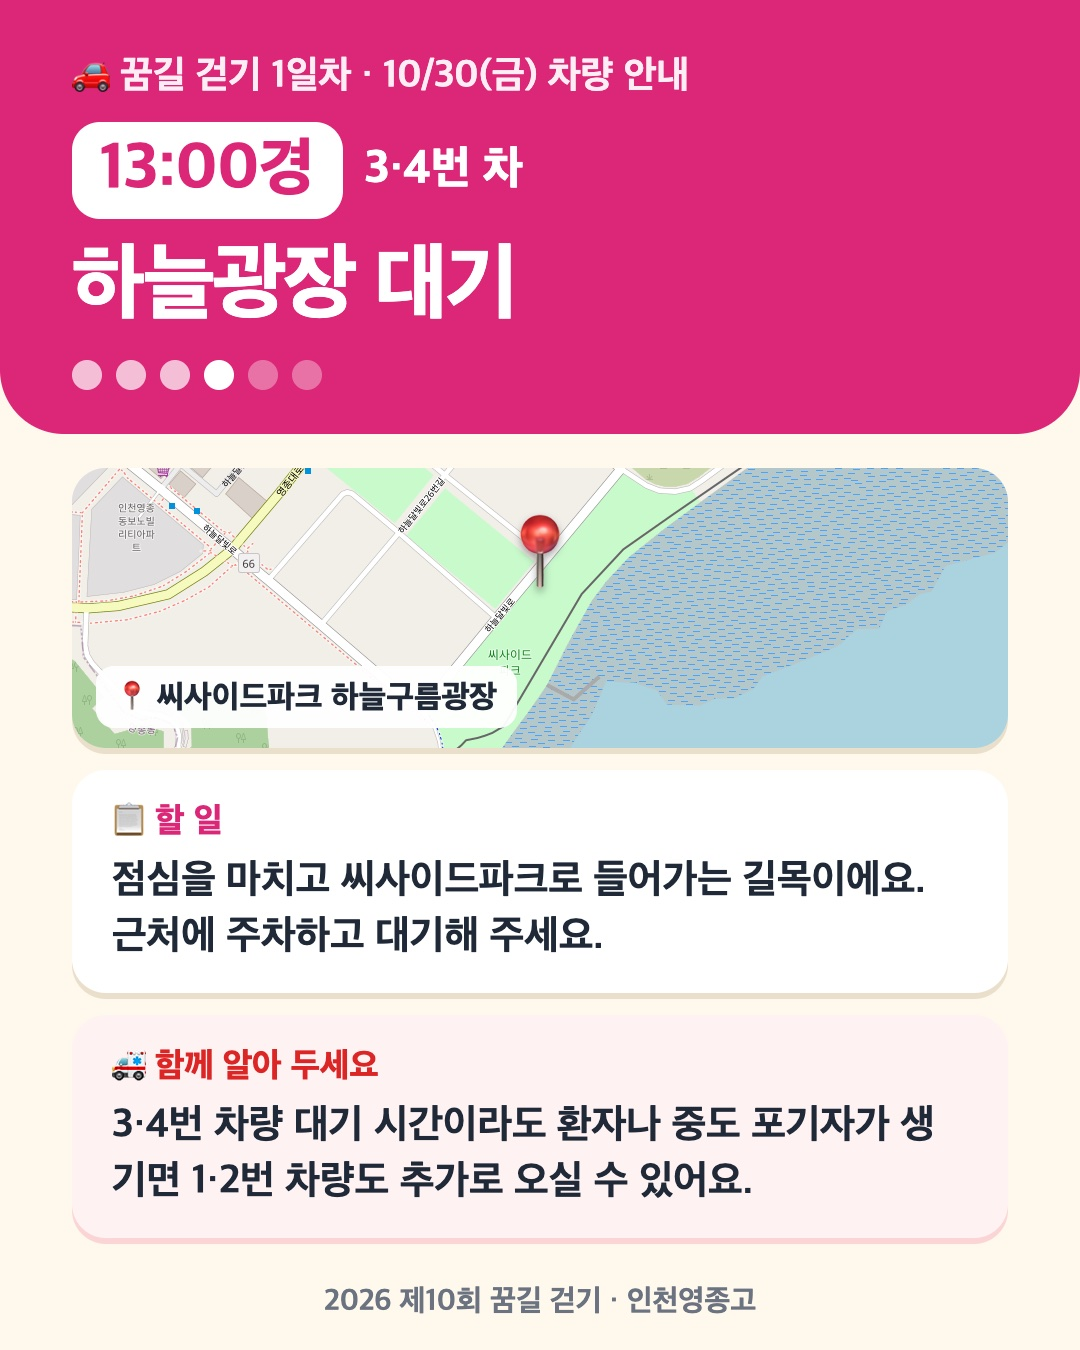
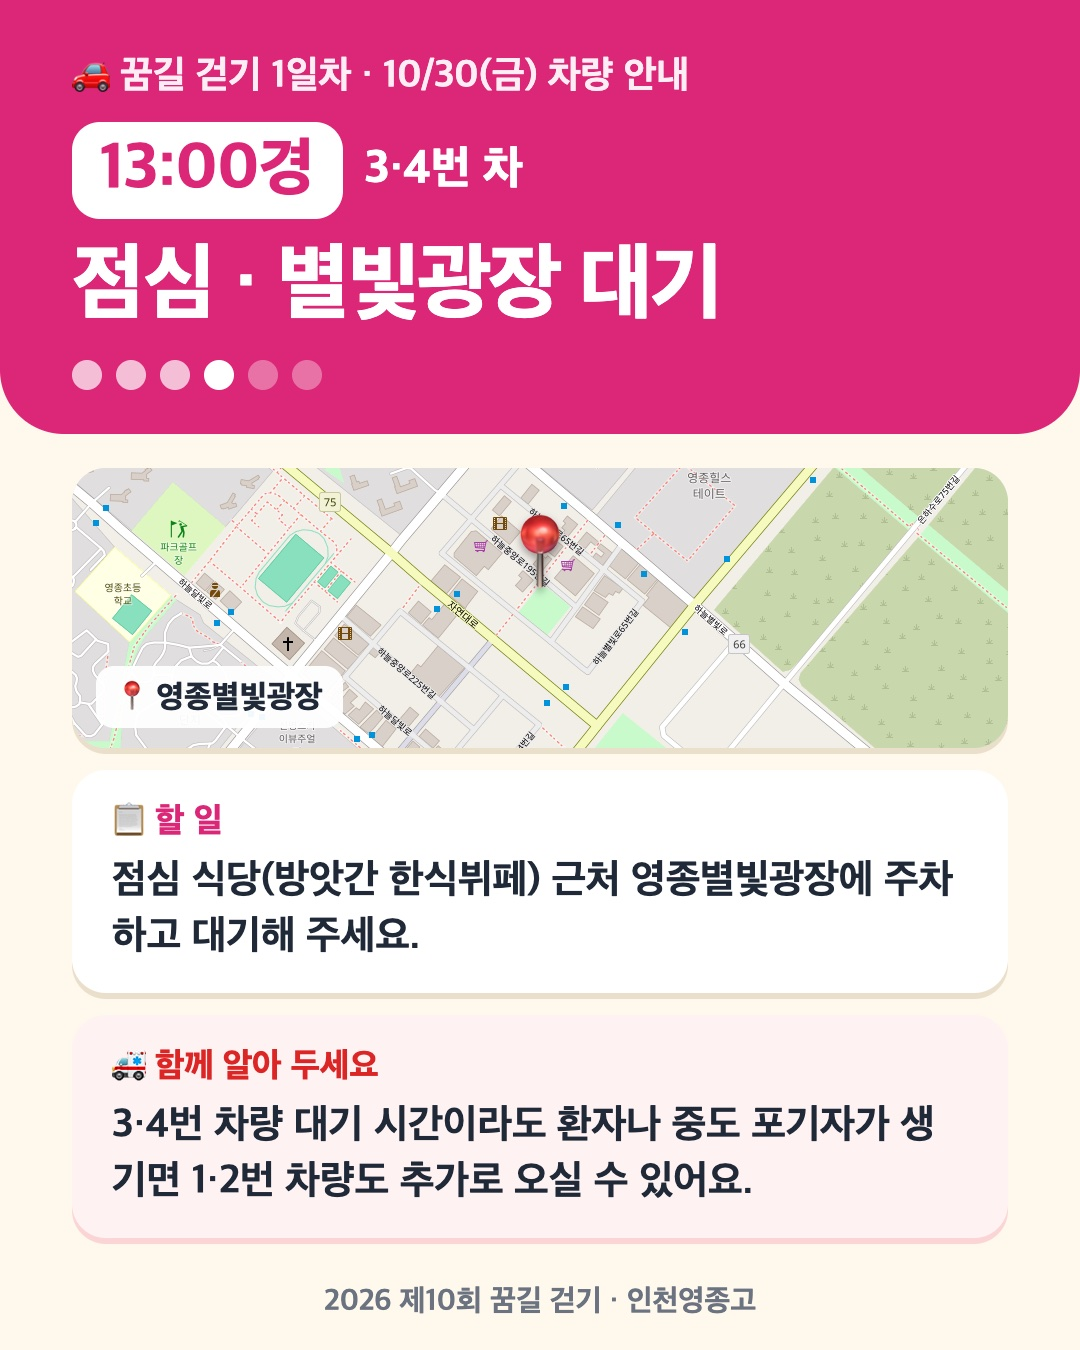
walk: 13시 차량 대기 = 영종별빛광장

Changed region(s): [[0.0611, 0.3422, 0.9472, 0.56], [0.0917, 0.6222, 0.8861, 0.7156], [0.0611, 0.1556, 0.6722, 0.2489]]

diff --git a/walk/car.html b/walk/car.html
@@ -76,8 +76,8 @@ var S=[
  {t:'11:30경',c:'12',n:'학생회 진행요원 픽업 → 점심 식당',p:'영종하늘도서관 버스정류장',lat:37.494929,lng:126.564576,
   d:'«영종하늘도서관» 정류장(번호 35585, 도서관 바로 앞)에서 학생회 보물찾기 진행요원을 태워 점심 식당(하늘신도시 방앗간 한식뷔페)으로 먼저 데려가 주세요. 점심 전에 보물 쪽지를 숨겨야 해요.',
   to:{p:'방앗간 한식뷔페',lat:37.48615203,lng:126.56027679}},
- {t:'13:00경',c:'34',n:'하늘광장 대기',p:'씨사이드파크 하늘구름광장',lat:37.48334535,lng:126.56782893,
-  d:'점심 식당에서 나와 씨사이드파크로 들어가는 길목이에요. 하늘구름광장 근처에 주차하고 대기해 주세요.'},
+ {t:'13:00경',c:'34',n:'점심 · 영종별빛광장 대기',p:'영종별빛광장',lat:37.48842949,lng:126.56214494,
+  d:'점심 식당(방앗간 한식뷔페) 근처 영종별빛광장에 주차하고 대기해 주세요.'},
  {t:'14:00경',c:'12',n:'운북사업소 뒤 주차장 대기 (카라반 캠핑장 쪽)',p:'인천환경공단 운북사업소 송산지소',lat:37.47952995,lng:126.55986788,
   d:'사전 답사 때 갔던 카라반 캠핑장 쪽, «인천환경공단 운북사업소 송산지소(송산수질복원센터)» 뒤쪽 주차장이에요. 길안내로 사업소까지 와서 뒤쪽 주차장에 주차하고 대기해 주세요.'},
  {t:'15:00경',c:'34',n:'족욕장 대기',p:'씨사이드 해수족욕장',lat:37.47041503,lng:126.51952616,
@@ -87,7 +87,7 @@ function kk(p,la,ln){return 'https://map.kakao.com/link/to/'+encodeURIComponent(
 function nv(p,la,ln){return 'https://map.naver.com/index.nhn?elng='+ln+'&elat='+la+'&etext='+encodeURIComponent(p)+'&menu=route&pathType=0'}
 function esc(s){return String(s).replace(/[&<>"]/g,function(c){return{'&':'&amp;','<':'&lt;','>':'&gt;','"':'&quot;'}[c]})}
 function mins(t){var m=t.match(/(\d+):(\d+)/);return +m[1]*60+ +m[2]}
-var CV='4';var IMG=['haneulgo','yonggungsa','library','cloud','camping','footbath'];
+var CV='5';var IMG=['haneulgo','yonggungsa','library','cloud','camping','footbath'];
 function txt(s){var o='[차량 안내 · '+s.t+' · '+(s.c==='12'?'1·2번':'3·4번')+' 차]\n'+s.n+'\n'+s.d+'\n📍 '+s.p+'\n카카오 길안내 👉 '+kk(s.p,s.lat,s.lng)+'\n네이버 길안내 👉 '+nv(s.p,s.lat,s.lng);
   if(s.to)o+='\n\n태운 뒤 → '+s.to.p+'\n카카오 길안내 👉 '+kk(s.to.p,s.to.lat,s.to.lng);return o}
 function toast(m){var t=document.getElementById('toast');t.textContent=m;t.classList.add('on');setTimeout(function(){t.classList.remove('on')},2200)}

diff --git a/walk/sw.js b/walk/sw.js
@@ -7,7 +7,7 @@
      · 내 파일(코스·사진·화면)  → 저장해 둔 것을 «먼저» 주고, 뒤에서 조용히 갱신
      · 카카오 지도 타일         → 저장하지 않는다(약관·용량). 신호 없으면 지도만 안 보인다
    ══════════════════════════════════════════════════════════════ */
-const V = 'kkumgil-v121';
+const V = 'kkumgil-v122';
 const CORE = ['./', './index.html', './courses.json', './course-day1.json', './course-day2.json',
               './manifest.json', './icon-192.png', './icon-512.png', './stamps.json',
               './hero.jpg', './t-poem.jpg', './t-catch.jpg', './t-shirt-dpw2.jpg',
